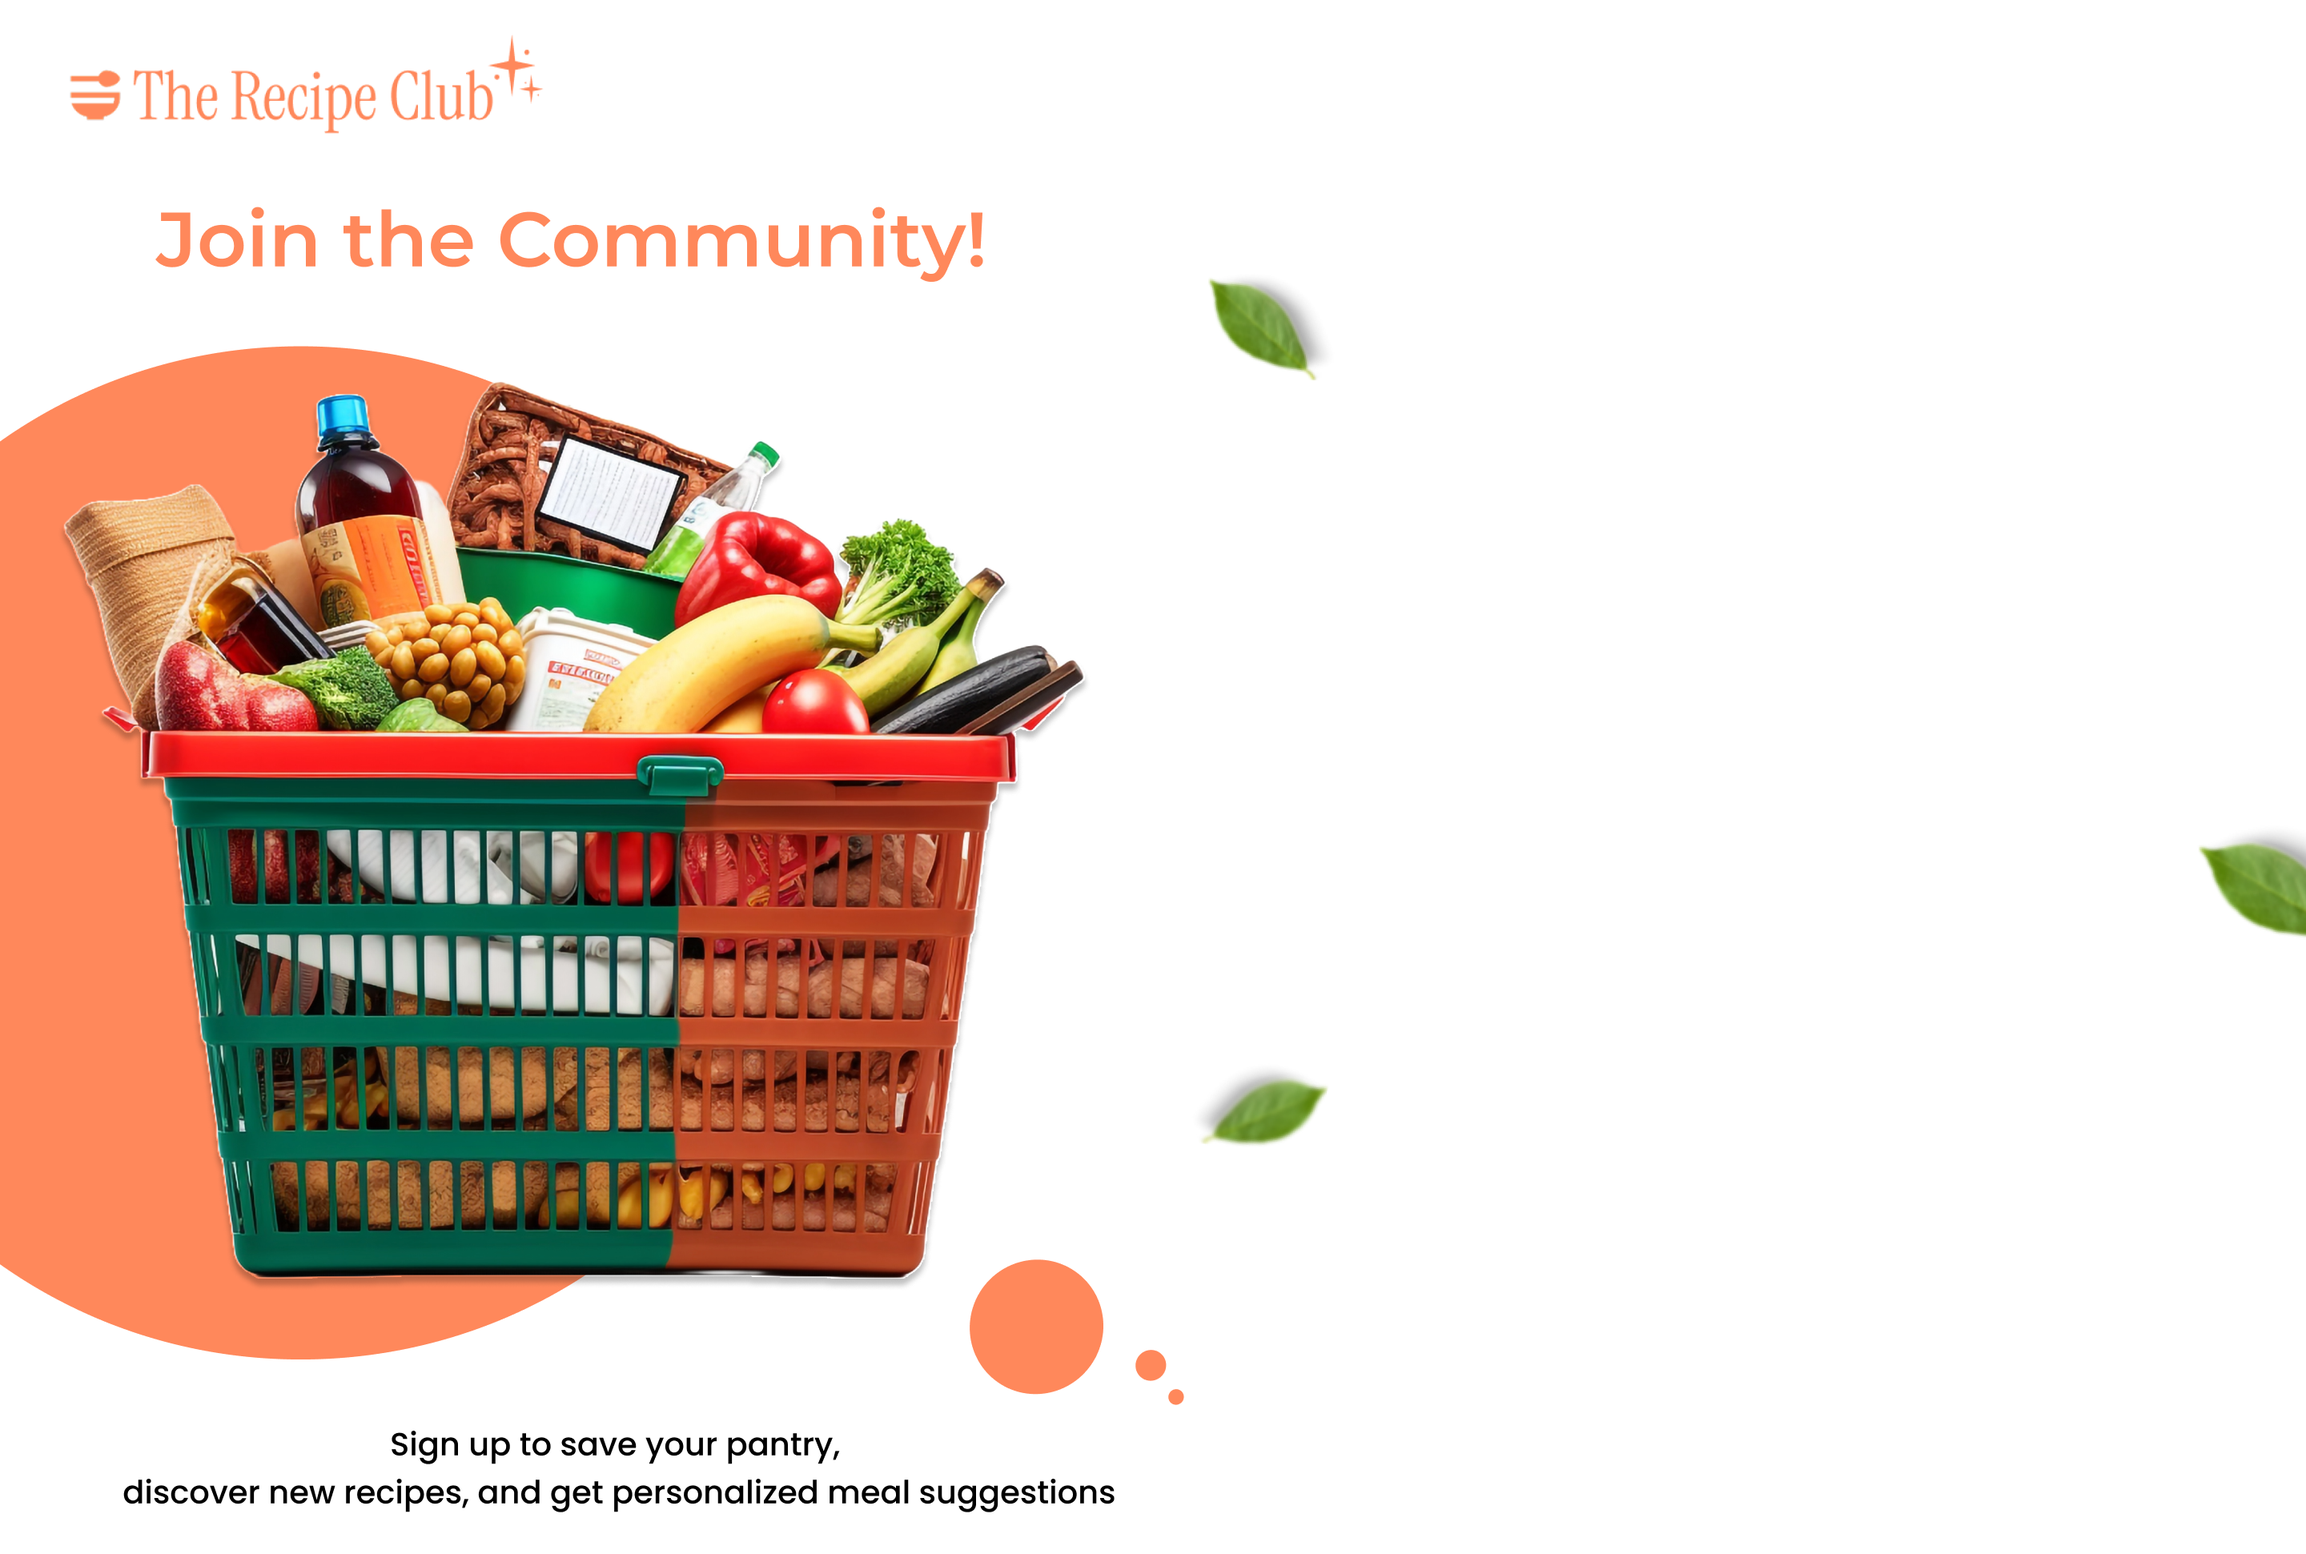
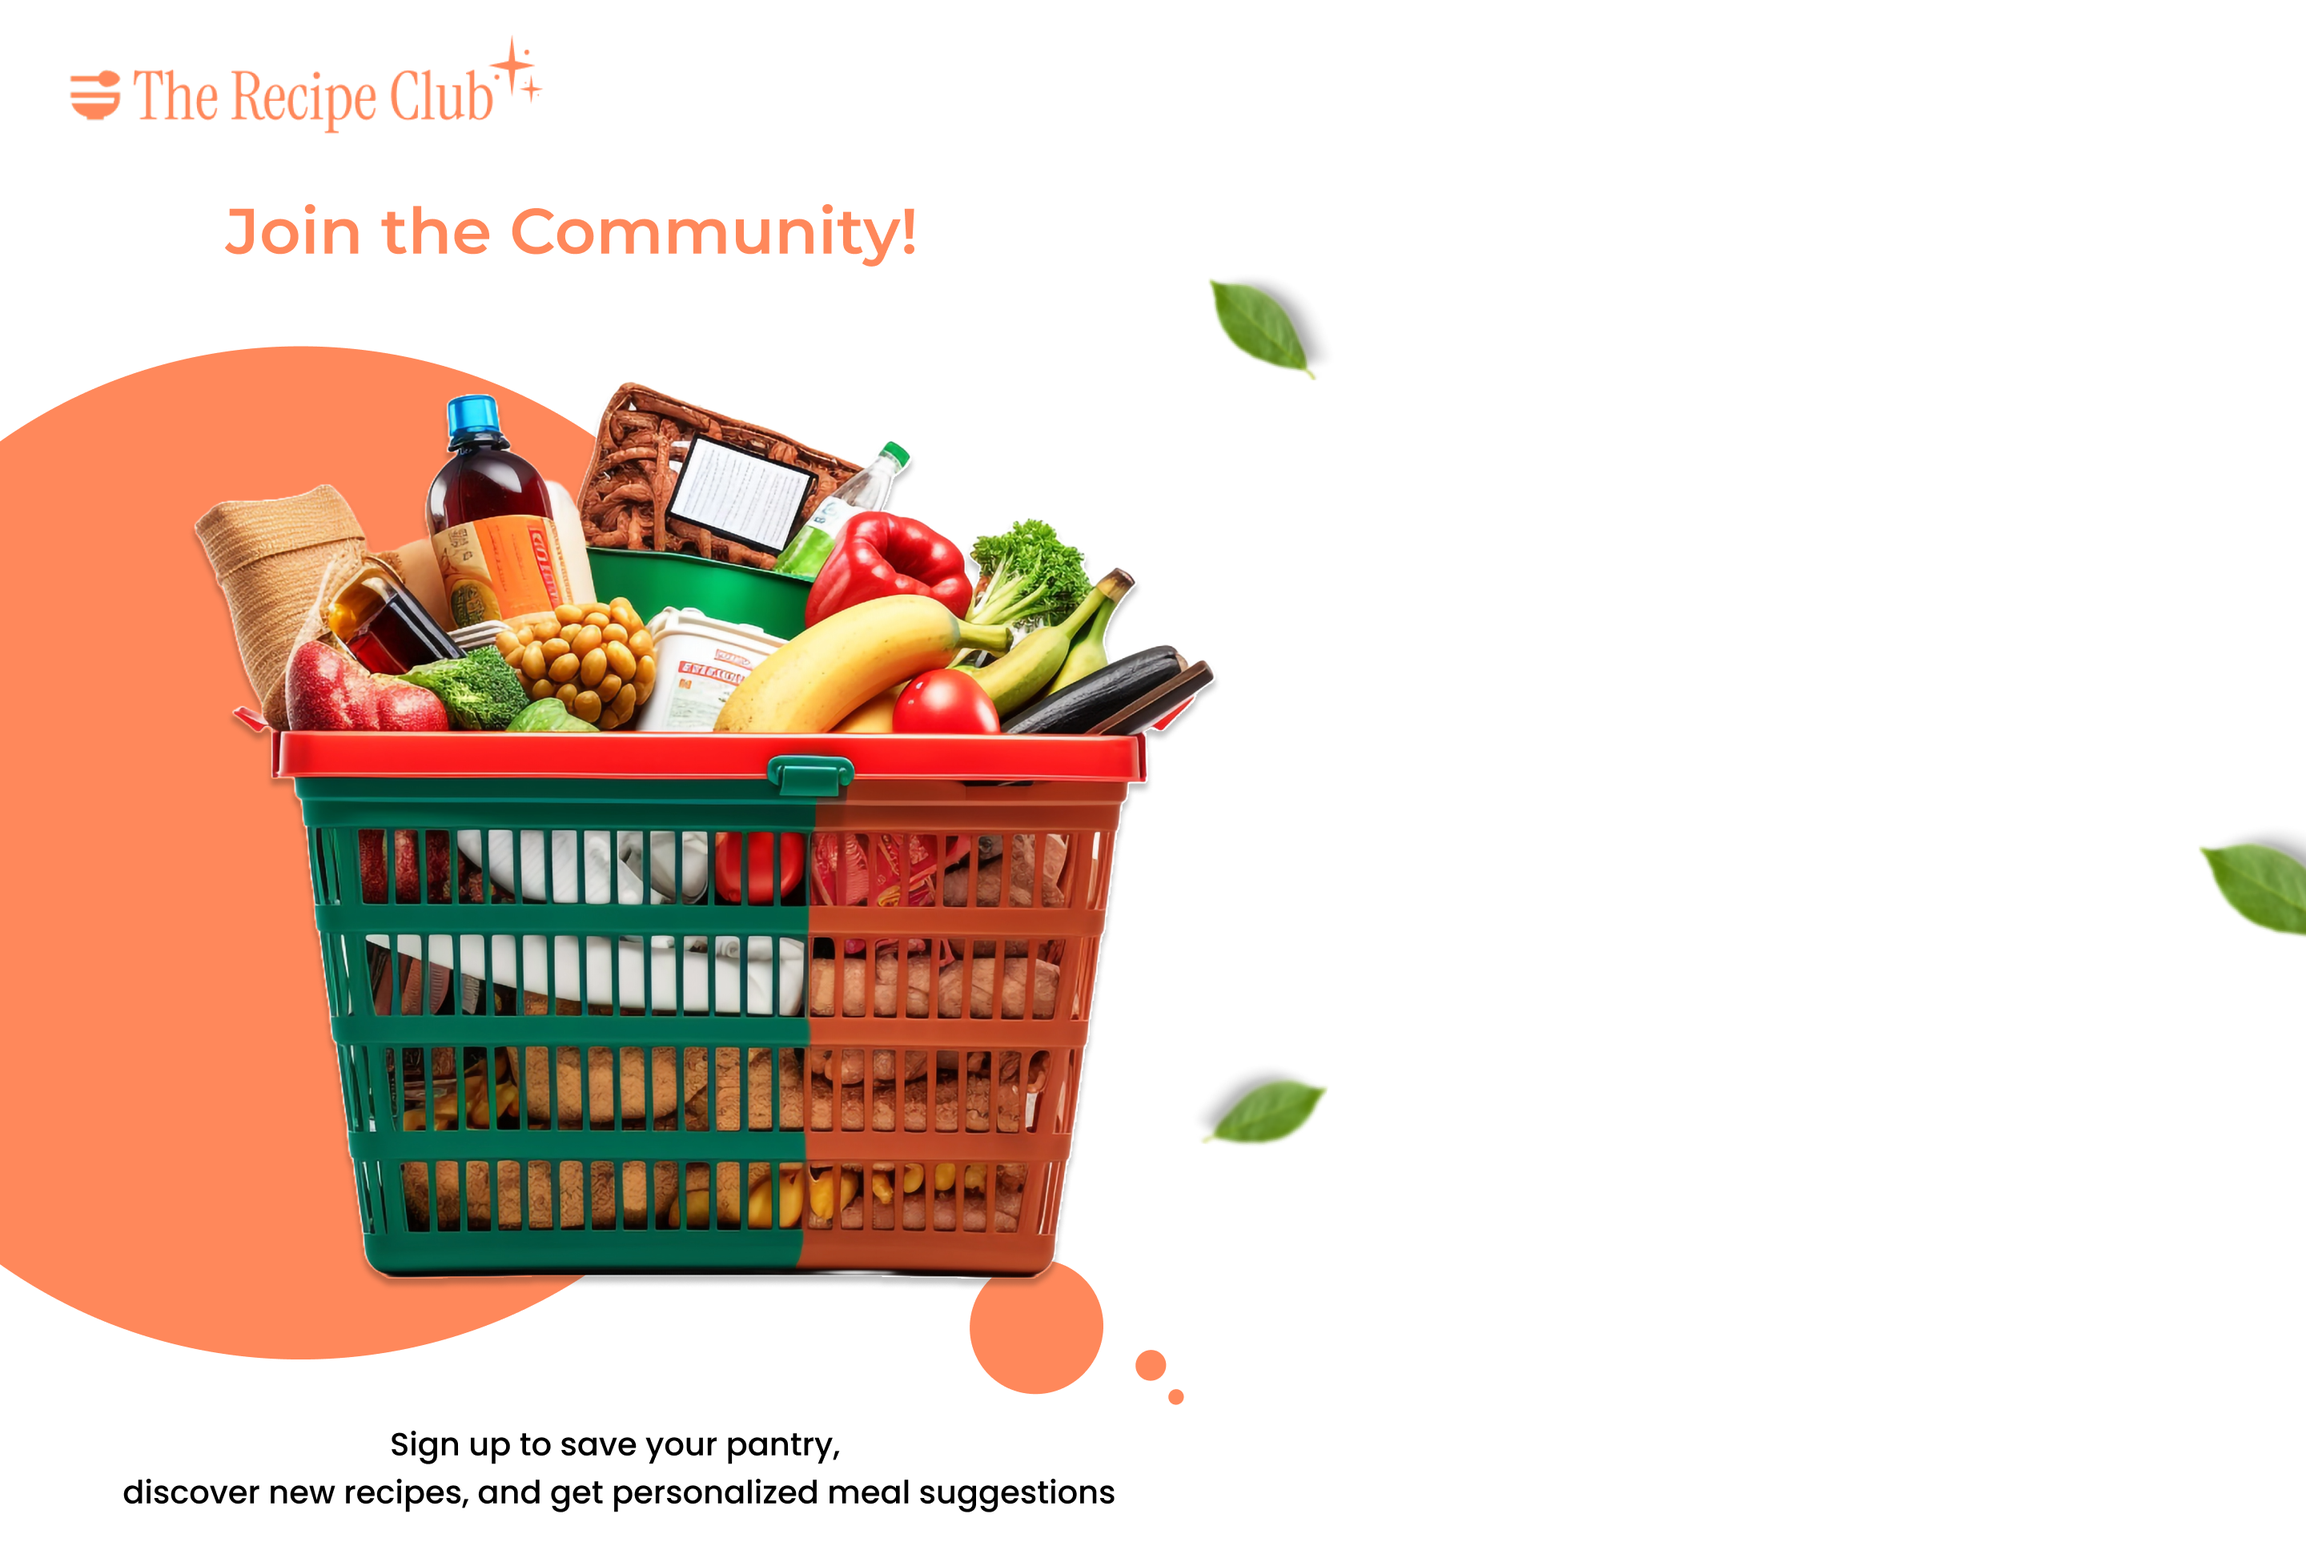
Quynh Anh | Adjusting UI for sign-up page

Changed region(s): [[0.0312, 0.2473, 0.5312, 0.8346], [0.0625, 0.1236, 0.4375, 0.1855]]

diff --git a/src/sections/auth/sign-up-form.tsx b/src/sections/auth/sign-up-form.tsx
@@ -77,10 +77,58 @@ const SignUpForm = () => {
   return (
     <div ref={formRef}>
       <form onSubmit={handleSubmit(onSubmit)}>
+         <Stack
+                  sx={{
+                    marginBottom: 3,
+                  }}
+                >
+                  <Box
+                    sx={{
+                      display: "flex",
+                      justifyContent: "space-between",
+                      alignItems: "center",
+                    }}
+                  >
+                    <Typography
+                      sx={{
+                        fontStyle: "normal",
+                        fontWeight: 400,
+                        fontSize: "15px",
+                        lineHeight: "24px",
+                        color: "#000000",
+                      }}
+                    >
+                      Welcome to Recipe Club
+                    </Typography>
+                    <Typography
+                      sx={{
+                        fontSize: "14px",
+                        display: "flex",
+                        gap: 0.5,
+                      }}
+                    >
+                      Have an Account ?{" "}
+                      <a
+                        href="/sign-up"
+                        style={{
+                          color: "#FF885B",
+                          textDecoration: "underline",
+                          textDecorationThickness: "1px",
+                          fontWeight: 600,
+                          textUnderlineOffset: "2px",
+                        }}
+                      >
+                        Sign in
+                      </a>
+                    </Typography>
+                  </Box>
+                  <Typography fontSize={30} fontWeight={600}>
+                    Sign Up
+                  </Typography>
+                 
+                </Stack>
         <Stack gap={1}>
-      <Typography fontSize={30} fontWeight={600}>
-            Sign in
-          </Typography>
+   
       
         <Box display="flex" gap={2} sx={{ mb: 2 }}>
 
@@ -456,7 +504,7 @@ const SignUpForm = () => {
           </Box>
         </Box>
 
-        <Stack gap={2}>
+        <Stack gap={1}>
           <Button
             type="submit"
             variant="contained"
@@ -500,30 +548,6 @@ const SignUpForm = () => {
               <img src={GoogleLogo} width={24} height={24} alt="google-logo" />
               <Typography sx={{ fontWeight: 600 }}>
                 Sign up with Google
-              </Typography>
-            </Box>
-          </Button>
-
-          <Button
-            fullWidth
-            variant="contained"
-            sx={{
-              backgroundColor: "#FF885B",
-              "&:hover": {
-                backgroundColor: "#ff7a47",
-              },
-            }}
-            onClick={() => console.log("Facebook signup")}
-          >
-            <Box display="flex" alignItems="center" gap={2}>
-              <img
-                src={FacebookLogo}
-                width={24}
-                height={24}
-                alt="facebook-logo"
-              />
-              <Typography sx={{ fontWeight: 600 }}>
-                Sign up with Facebook
               </Typography>
             </Box>
           </Button>

diff --git a/src/pages/auth/sign-up-page.tsx b/src/pages/auth/sign-up-page.tsx
@@ -40,8 +40,10 @@ const signUpPage = () => {
           gap: 2,
           position: "relative",
           zIndex: 2,
-          margin: "30px",
-          marginLeft: "80px",
+         marginRight: "60px",
+         marginTop: "5px",
+         
+         
         }}
       >
         <Box
